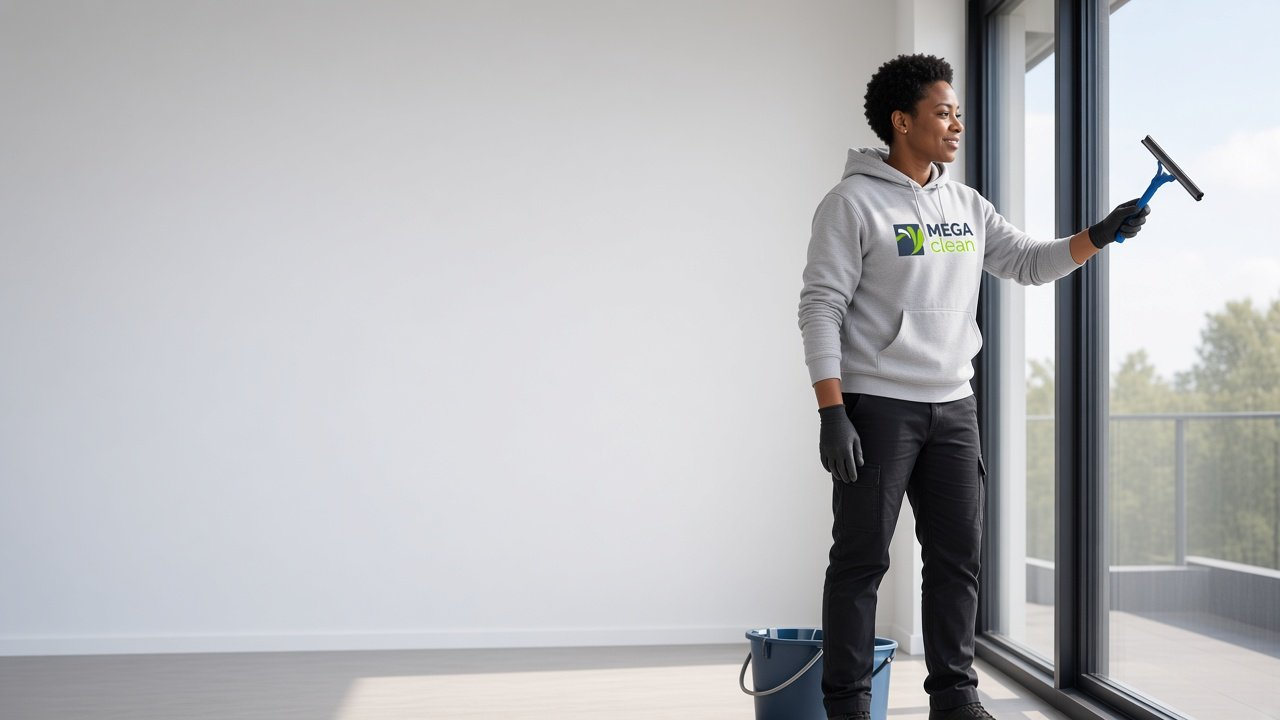
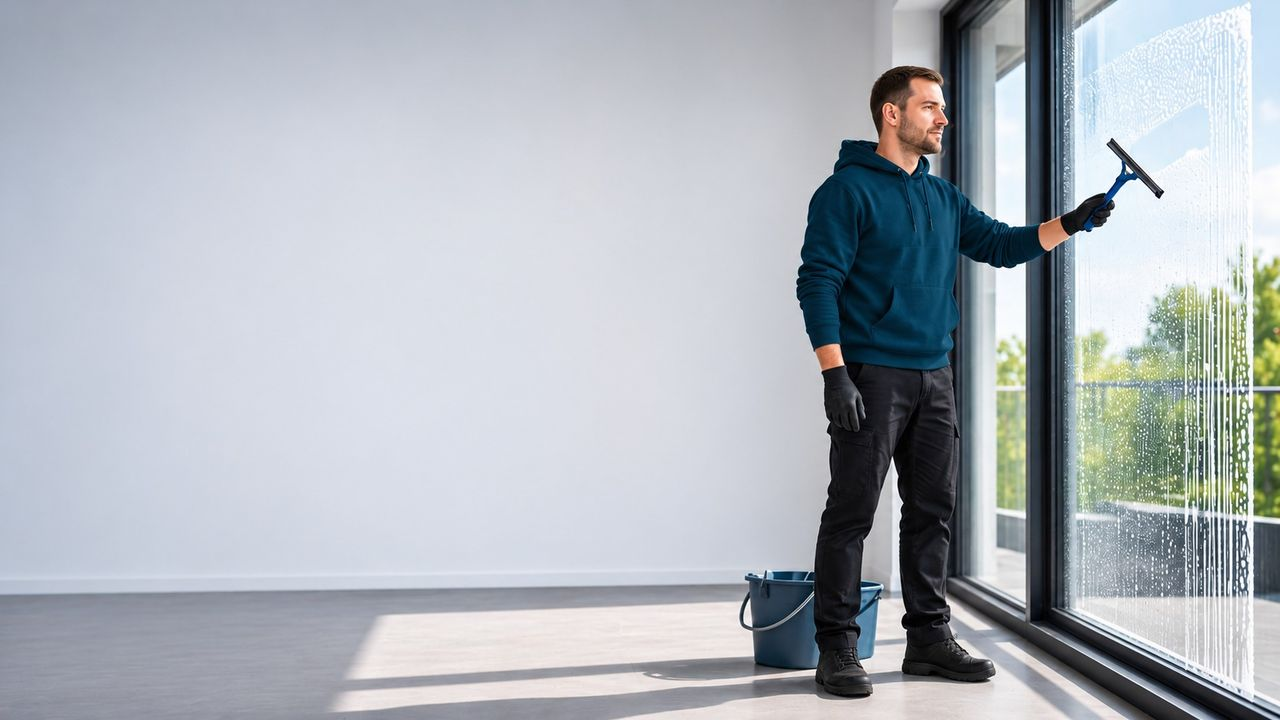
Neue Bilder von Sarah: Startbild und 8 Leistungsrubriken (#25)

diff --git a/index.html b/index.html
@@ -111,7 +111,7 @@
 
 <section class="hero" id="start" aria-labelledby="h-hero">
   <div class="hero__buehne">
-    <div class="hero__bg" aria-hidden="true"><img src="img/header-v4-1280.jpg" srcset="img/header-v4-800.jpg 800w, img/header-v4-1280.jpg 1280w, img/header-v4-1920.jpg 1920w" sizes="100vw" fetchpriority="high" width="1920" height="1080" alt="" decoding="async"></div>
+    <div class="hero__bg" aria-hidden="true"><img src="img/header-v5-1280.jpg" srcset="img/header-v5-800.jpg 800w, img/header-v5-1280.jpg 1280w, img/header-v5-1672.jpg 1672w" sizes="100vw" fetchpriority="high" width="1672" height="941" alt="" decoding="async"></div>
     <div class="wrap">
       <div class="hero__text">
         <p class="eyebrow">Berliner Familienunternehmen seit 2018</p>
@@ -127,14 +127,14 @@
 
 <nav class="schnell" id="einblicke" aria-label="Leistungen im Überblick">
   <div class="wrap"><ul class="schnell__liste">
-    <li><a href="#gebaeudereinigung"><img src="img/marvin-fenster-800.jpg" srcset="img/marvin-fenster-800.jpg 800w, img/marvin-fenster-1152.jpg 1152w, img/marvin-fenster-1536.jpg 1536w" width="800" height="600" alt="Mann in grauem Pullover reinigt mit einem Abzieher eine Fensterfront." decoding="async" style="object-position:50% 20%"><span class="karte__titel">Gebäude&shy;reinigung</span><span class="karte__mehr">Mehr erfahren →</span></a></li>
-    <li><a href="#gebaeudeservice"><img src="img/leistung-gebaeudeservice-800.jpg" srcset="img/leistung-gebaeudeservice-800.jpg 800w, img/leistung-gebaeudeservice-1152.jpg 1152w" width="800" height="600" alt="Frau in schieferblauem Pullover prüft mit einem Tablet eine Tür im Treppenhaus." decoding="async" style="object-position:50% 20%"><span class="karte__titel">Objekt&shy;service</span><span class="karte__mehr">Mehr erfahren →</span></a></li>
-    <li><a href="#hausmeister"><img src="img/leistung-hausmeisterservice-800.jpg" srcset="img/leistung-hausmeisterservice-800.jpg 800w, img/leistung-hausmeisterservice-1152.jpg 1152w" width="800" height="600" alt="Mann in schieferblauem Pullover stellt mit einem Schraubendreher ein Türschloss ein." decoding="async" style="object-position:45% 20%"><span class="karte__titel">Haus&shy;meister&shy;service</span><span class="karte__mehr">Mehr erfahren →</span></a></li>
-    <li><a href="#baustellenreinigung"><img src="img/leistung-baustellenreinigung-800.jpg" srcset="img/leistung-baustellenreinigung-800.jpg 800w, img/leistung-baustellenreinigung-1152.jpg 1152w" width="800" height="600" alt="Frau in schieferblauem Pullover reinigt den Boden eines frisch renovierten Raums." decoding="async" style="object-position:50% 20%"><span class="karte__titel">Baustellen&shy;reinigung</span><span class="karte__mehr">Mehr erfahren →</span></a></li>
-    <li><a href="#entruempelung"><img src="img/entruempelung-v2-800.jpg" width="800" height="600" alt="Person in grauem Pullover trägt Kartons aus einer Wohnung." decoding="async" style="object-position:50% 25%"><span class="karte__titel">Entrümpelung</span><span class="karte__mehr">Mehr erfahren →</span></a></li>
-    <li><a href="#umzuege"><img src="img/moebeltransport-treppe-800.jpg" srcset="img/moebeltransport-treppe-800.jpg 800w, img/moebeltransport-treppe-864.jpg 864w" width="800" height="600" alt="Person in grauem Pullover trägt ein Holzmöbel durchs Treppenhaus." decoding="async" style="object-position:50% 0%"><span class="karte__titel">Umzüge</span><span class="karte__mehr">Mehr erfahren →</span></a></li>
-    <li><a href="#transporte"><img src="img/leistung-transporte-800.jpg" srcset="img/leistung-transporte-800.jpg 800w, img/leistung-transporte-1152.jpg 1152w" width="800" height="600" alt="Frau in schieferblauem Pullover sichert Kartons mit einem Spanngurt an einem Lieferwagen." decoding="async" style="object-position:50% 25%"><span class="karte__titel">Transporte</span><span class="karte__mehr">Mehr erfahren →</span></a></li>
-    <li><a href="#rohrreinigung"><img src="img/leistung-rohrreinigung-800.jpg" srcset="img/leistung-rohrreinigung-800.jpg 800w, img/leistung-rohrreinigung-1152.jpg 1152w" width="800" height="600" alt="Frau in schieferblauem Pullover reinigt einen Waschbeckenabfluss mit einer Rohrspirale." decoding="async" style="object-position:62% 25%"><span class="karte__titel">Rohr&shy;reinigung</span><span class="karte__mehr">Mehr erfahren →</span></a></li>
+    <li><a href="#gebaeudereinigung"><img src="img/leistung-gebaeudereinigung-v3-800.jpg" srcset="img/leistung-gebaeudereinigung-v3-800.jpg 800w, img/leistung-gebaeudereinigung-v3-1168.jpg 1168w" width="800" height="600" alt="Mann in dunkelblauem Pullover reinigt mit einem Abzieher eine Glasscheibe." decoding="async" style="object-position:50% 30%"><span class="karte__titel">Gebäude&shy;reinigung</span><span class="karte__mehr">Mehr erfahren →</span></a></li>
+    <li><a href="#gebaeudeservice"><img src="img/leistung-objektservice-v3-800.jpg" srcset="img/leistung-objektservice-v3-800.jpg 800w, img/leistung-objektservice-v3-1168.jpg 1168w" width="800" height="600" alt="Frau in dunkelblauem Poloshirt arbeitet mit einem Tablet in einem hellen Bürogebäude." decoding="async" style="object-position:50% 30%"><span class="karte__titel">Objekt&shy;service</span><span class="karte__mehr">Mehr erfahren →</span></a></li>
+    <li><a href="#hausmeister"><img src="img/leistung-hausmeisterservice-v3-800.jpg" srcset="img/leistung-hausmeisterservice-v3-800.jpg 800w, img/leistung-hausmeisterservice-v3-1168.jpg 1168w" width="800" height="600" alt="Frau in dunkelblauem Shirt wechselt auf einer Leiter eine Deckenlampe." decoding="async" style="object-position:50% 30%"><span class="karte__titel">Haus&shy;meister&shy;service</span><span class="karte__mehr">Mehr erfahren →</span></a></li>
+    <li><a href="#baustellenreinigung"><img src="img/leistung-baustellenreinigung-v3-800.jpg" srcset="img/leistung-baustellenreinigung-v3-800.jpg 800w, img/leistung-baustellenreinigung-v3-1168.jpg 1168w" width="800" height="600" alt="Mann in dunkelblauem Shirt schiebt eine Kehrmaschine über eine Baustelle." decoding="async" style="object-position:50% 30%"><span class="karte__titel">Baustellen&shy;reinigung</span><span class="karte__mehr">Mehr erfahren →</span></a></li>
+    <li><a href="#entruempelung"><img src="img/leistung-entruempelung-v3-800.jpg" srcset="img/leistung-entruempelung-v3-800.jpg 800w, img/leistung-entruempelung-v3-1168.jpg 1168w" width="800" height="600" alt="Mann in dunkelblauem Pullover trägt einen Holzschrank aus einer Wohnung." decoding="async" style="object-position:50% 30%"><span class="karte__titel">Entrümpelung</span><span class="karte__mehr">Mehr erfahren →</span></a></li>
+    <li><a href="#umzuege"><img src="img/leistung-umzuege-v3-800.jpg" srcset="img/leistung-umzuege-v3-800.jpg 800w, img/leistung-umzuege-v3-1168.jpg 1168w" width="800" height="600" alt="Mann in dunkelblauem Shirt trägt Umzugskartons durch eine Wohnung." decoding="async" style="object-position:50% 30%"><span class="karte__titel">Umzüge</span><span class="karte__mehr">Mehr erfahren →</span></a></li>
+    <li><a href="#transporte"><img src="img/leistung-transporte-v3-800.jpg" srcset="img/leistung-transporte-v3-800.jpg 800w, img/leistung-transporte-v3-1168.jpg 1168w" width="800" height="600" alt="Frau in dunkelblauem Shirt bringt mit einer Sackkarre ein Gerät zum Transporter." decoding="async" style="object-position:50% 30%"><span class="karte__titel">Transporte</span><span class="karte__mehr">Mehr erfahren →</span></a></li>
+    <li><a href="#rohrreinigung"><img src="img/leistung-rohrreinigung-v3-800.jpg" srcset="img/leistung-rohrreinigung-v3-800.jpg 800w, img/leistung-rohrreinigung-v3-1168.jpg 1168w" width="800" height="600" alt="Frau in dunkelblauem Shirt reinigt den Abfluss unter einer Spüle mit einer Rohrreinigungsmaschine." decoding="async" style="object-position:50% 30%"><span class="karte__titel">Rohr&shy;reinigung</span><span class="karte__mehr">Mehr erfahren →</span></a></li>
   </ul>
   <p class="schnell__hinweis">Beispielbilder, KI-bearbeitet.</p>
   </div>
